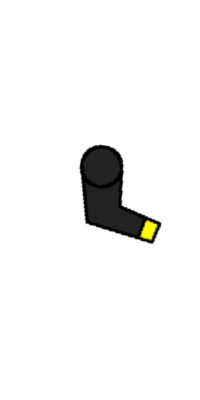
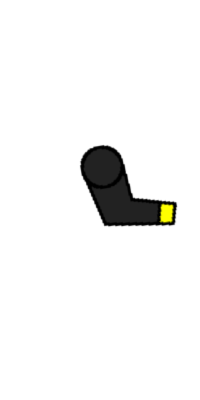
Smoother animation

Changed region(s): [[0.39, 0.39, 0.9, 0.63], [0.42, 0.36, 0.51, 0.39]]

diff --git a/src/robot.cpp b/src/robot.cpp
@@ -16,7 +16,7 @@
 using runbot::Robot;
 
 Robot::Robot(Graphic &graphic) :
-    anim(0, 0, Robot::W, Robot::H, 15) {
+    anim(0, 0, Robot::W, Robot::H, 30) {
 
     SDL_Surface *loadSurface = IMG_Load("assets/robot.png");
     if(loadSurface == NULL)
@@ -47,22 +47,27 @@ void Robot::draw(SDL_Renderer *rend, SDL_Texture *text) {
     SDL_RenderCopy(rend, getSprite(), &src, &des);
 }
 
-void Robot::jump(int force) {
-    if(y + Robot::H == GAME_H) {
-        jumpForce = force;
-    }
-}
-
 void Robot::doTick() {
 
     if(y + Robot::H < GAME_H) {
-        jumpForce -= 1;
+        jumpForce -= 2;
     } else if(y + Robot::H > GAME_H) {
         jumpForce = 0;
         y = GAME_H - Robot::H;
+        anim.resume();
     }
 
     y -= jumpForce;
 
     anim.doTick();
+}
+
+// Jump with `force` force
+void Robot::jump(int force) {
+    if(force > 0 && y + Robot::H == GAME_H) {
+        jumpForce = force;
+        anim.pause();
+    } else if(force < jumpForce && y + Robot::H < GAME_H) {
+        jumpForce = force;
+    }
 }

diff --git a/src/game.cpp b/src/game.cpp
@@ -32,8 +32,10 @@ void Game::loop() {
         // Stuff here
         processEvents();
 
-        if(keys["space"]) {
-            robot.jump(10);
+        if(keys["up"]) {
+            robot.jump(30);
+        } else {
+            robot.jump(-10);
         }
 
         robot.doTick();
@@ -54,15 +56,15 @@ void Game::processEvents() {
         switch(eve.type) {
             case SDL_KEYDOWN:
                 switch(eve.key.keysym.sym) {
-                    case SDLK_SPACE:
-                        keys["space"] = true;
+                    case SDLK_UP:
+                        keys["up"] = true;
                         break;
                 }
                 break;
             case SDL_KEYUP:
                 switch(eve.key.keysym.sym) {
-                    case SDLK_SPACE:
-                        keys["space"] = false;
+                    case SDLK_UP:
+                        keys["up"] = false;
                         break;
                 }
                 break;

diff --git a/src/anim.hpp b/src/anim.hpp
@@ -12,19 +12,22 @@
 
 namespace runbot {
     class Animation {
-        private:
-            int x, y, w, h; // Start pint, size
-            int aniLength; // The length of the animation
-            unsigned int frame;
-            unsigned int tick;
-            std::vector<SDL_Rect> spriteClips;
-
         public:
             Animation(int, int, int, int, int);
             ~Animation();
             void createClips(int);
             SDL_Rect getCurrentClip();
+            void pause();
+            void resume();
             void doTick();
+
+        private:
+            int x, y, w, h; // Start pint, size
+            int aniLength; // The length of the animation
+            unsigned int frame;
+            unsigned int tick;
+            bool paused;
+            std::vector<SDL_Rect> spriteClips;
     };
 };
 

diff --git a/src/anim.cpp b/src/anim.cpp
@@ -29,13 +29,23 @@ SDL_Rect Animation::getCurrentClip() {
     return spriteClips[frame];
 }
 
+void Animation::pause() {
+    paused = true;
+}
+
+void Animation::resume() {
+    paused = false;
+}
+
 void Animation::doTick() {
 
-    while(aniLength / (float) spriteClips.size() * frame < tick) {
-        frame++;
-    }
-    frame %= spriteClips.size();
+    if(!paused) {
+        while(aniLength / (float) spriteClips.size() * frame < tick) {
+            frame++;
+        }
+        frame %= spriteClips.size();
 
-    tick++;
-    tick %= aniLength;
+        tick++;
+        tick %= aniLength;
+    }
 }

diff --git a/src/graphic.cpp b/src/graphic.cpp
@@ -34,7 +34,7 @@ Graphic::Graphic() {
 
     rend = SDL_CreateRenderer(win, -1,
             SDL_RENDERER_ACCELERATED |
-            SDL_RENDERER_PRESENTVSYNC |
+            //SDL_RENDERER_PRESENTVSYNC |
             SDL_RENDERER_TARGETTEXTURE);
     if(rend == NULL)
         throw std::runtime_error(SDL_GetError());

diff --git a/src/robot.hpp b/src/robot.hpp
@@ -21,9 +21,9 @@ namespace runbot {
             ~Robot();
             SDL_Texture *getSprite();
             void draw(SDL_Renderer*, SDL_Texture*);
+            void doTick();
 
             void jump(int);
-            void doTick();
 
         private:
             SDL_Texture *sprite;

diff --git a/src/game.hpp b/src/game.hpp
@@ -16,7 +16,7 @@ namespace runbot {
     const int GAME_W = 1024;
     const int GAME_H = 576;
     const char *const NAME = "Runbot";
-    const int FPS = 30;
+    const int FPS = 60;
     const int TPF = 1000 / FPS; // ticks per frame
 
     void logError(const char*, const char*);
